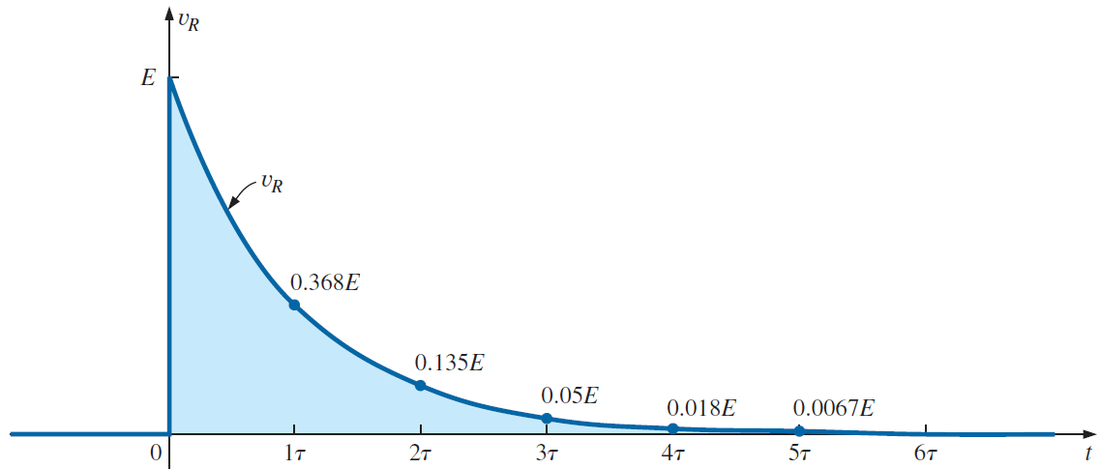
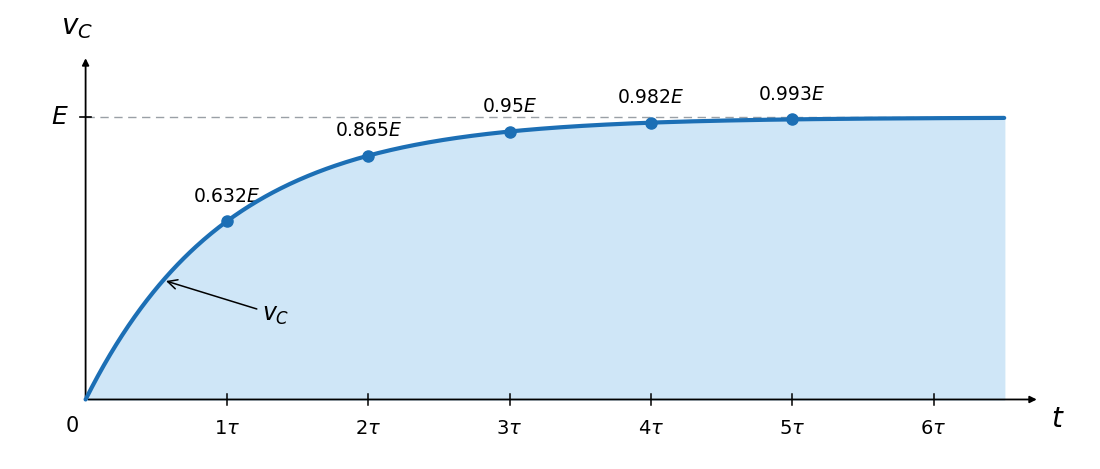
fixing a pic in RC transients

diff --git a/js/questions.js b/js/questions.js
@@ -712,7 +712,7 @@ window.QUIZ_QUESTIONS = [
   "topic": "Ohm's Law",
   "diff": "medium",
   "src": "guide",
-  "t": "On the I–V plot of a resistor, a STEEPER slope indicates:",
+  "t": "On the I–V plot (current I on the vertical axis, voltage V on the horizontal) of a resistor, a steeper slope indicates:",
   "o": [
    "a larger resistance",
    "a smaller resistance",
@@ -720,7 +720,7 @@ window.QUIZ_QUESTIONS = [
    "a nonlinear device"
   ],
   "a": 1,
-  "e": "Slope = I/V = 1/R. A steeper line means smaller R."
+  "e": "With I on the vertical axis and V on the horizontal, slope = ΔI/ΔV = 1/R, so a steeper line means a SMALLER resistance (the convention Boylestad and the DC Circuits page use). Plot it the other way (V vs I) and the slope equals R, so steeper would mean larger R."
  },
  {
   "id": "dc-046",
